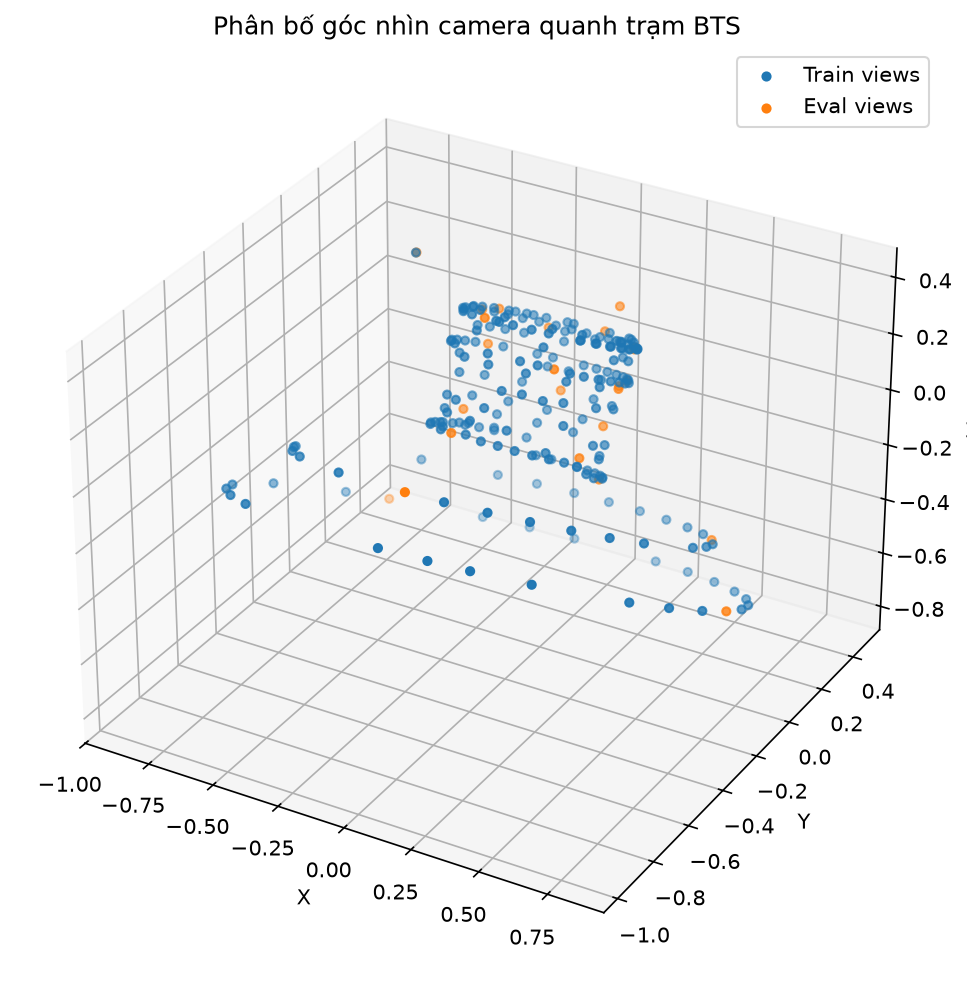
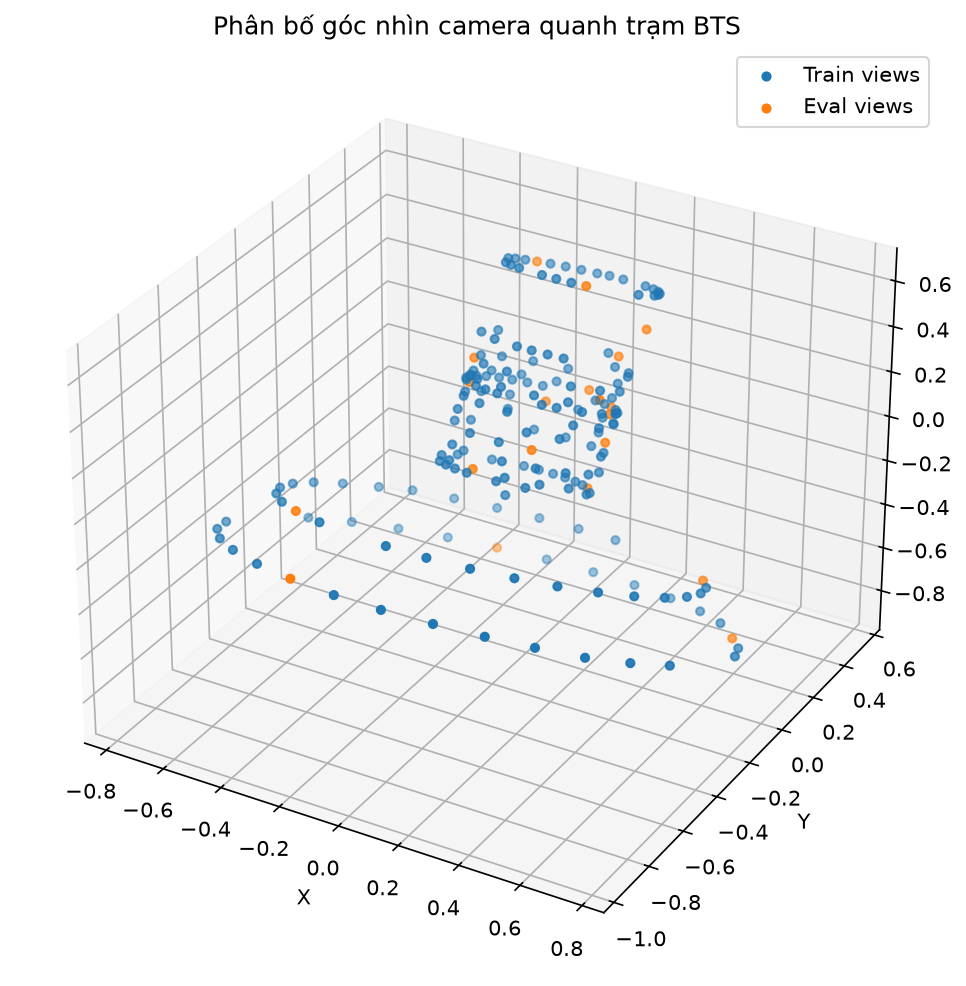
Update output files: modify train log and add new event file for bts_scene_01

diff --git a/Telecom-DigitalTwin-fixed/Telecom-DigitalTwin/inference/render_novel_views.py b/Telecom-DigitalTwin-fixed/Telecom-DigitalTwin/inference/render_novel_views.py
@@ -11,7 +11,7 @@ from PIL import Image
 from tqdm import tqdm
 
 from models.gaussian_model import GaussianModel
-from datasets.bts_dataset import BTSDataset
+from dataloader.bts_dataset import BTSDataset
 from renderer.gaussian_renderer import render
 from utils.config_loader import load_config, cfg_get
 
